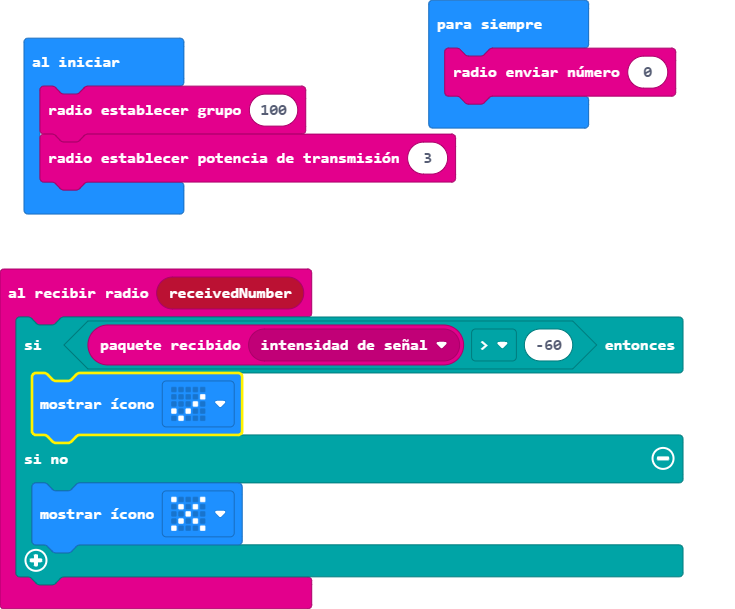
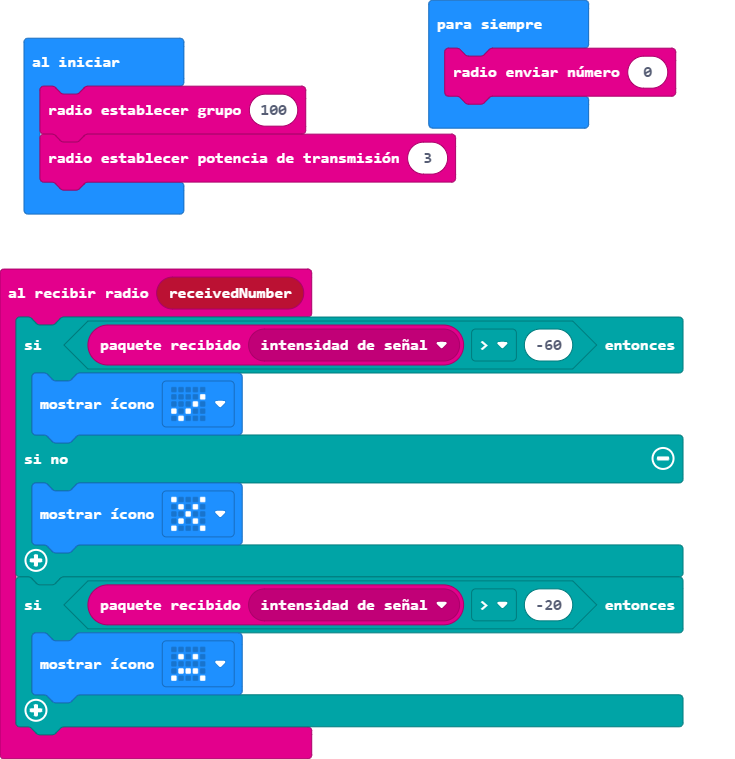
Actualizar main.blocks, main.ts

diff --git a/main.ts b/main.ts
@@ -4,6 +4,9 @@ radio.onReceivedNumber(function (receivedNumber) {
     } else {
         basic.showIcon(IconNames.No)
     }
+    if (radio.receivedPacket(RadioPacketProperty.SignalStrength) > -20) {
+        basic.showIcon(IconNames.Sad)
+    }
 })
 radio.setGroup(100)
 radio.setTransmitPower(3)
